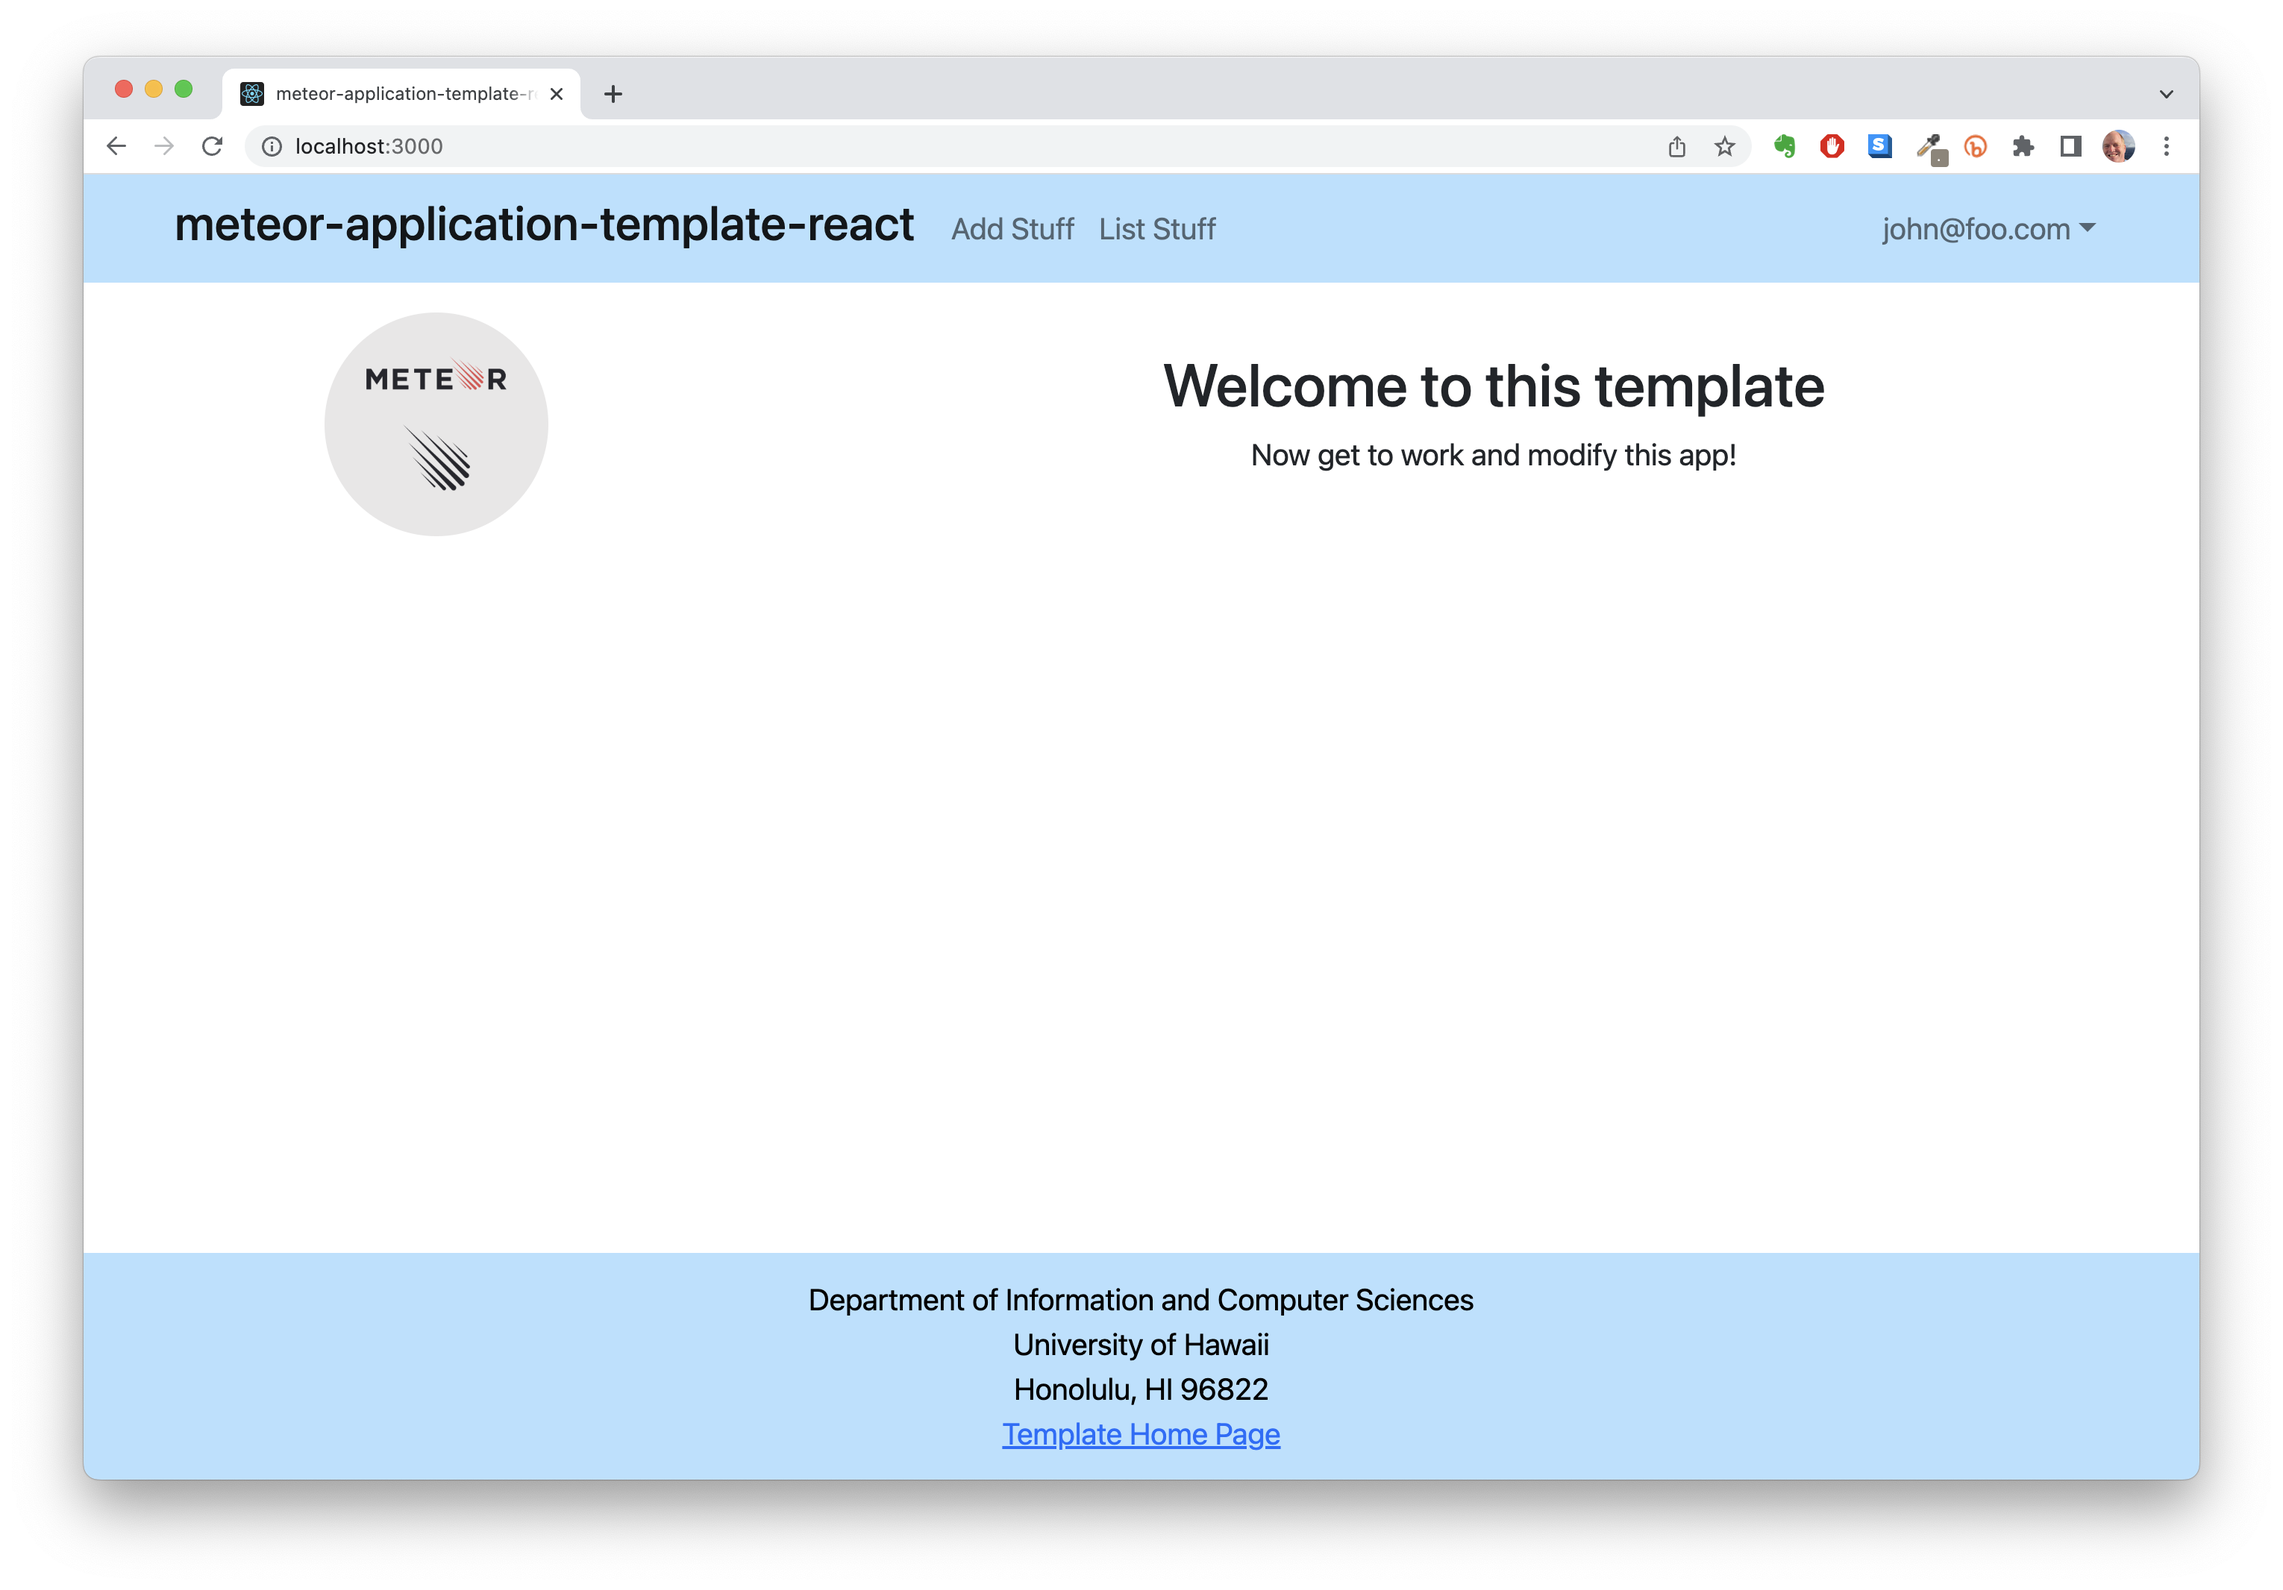
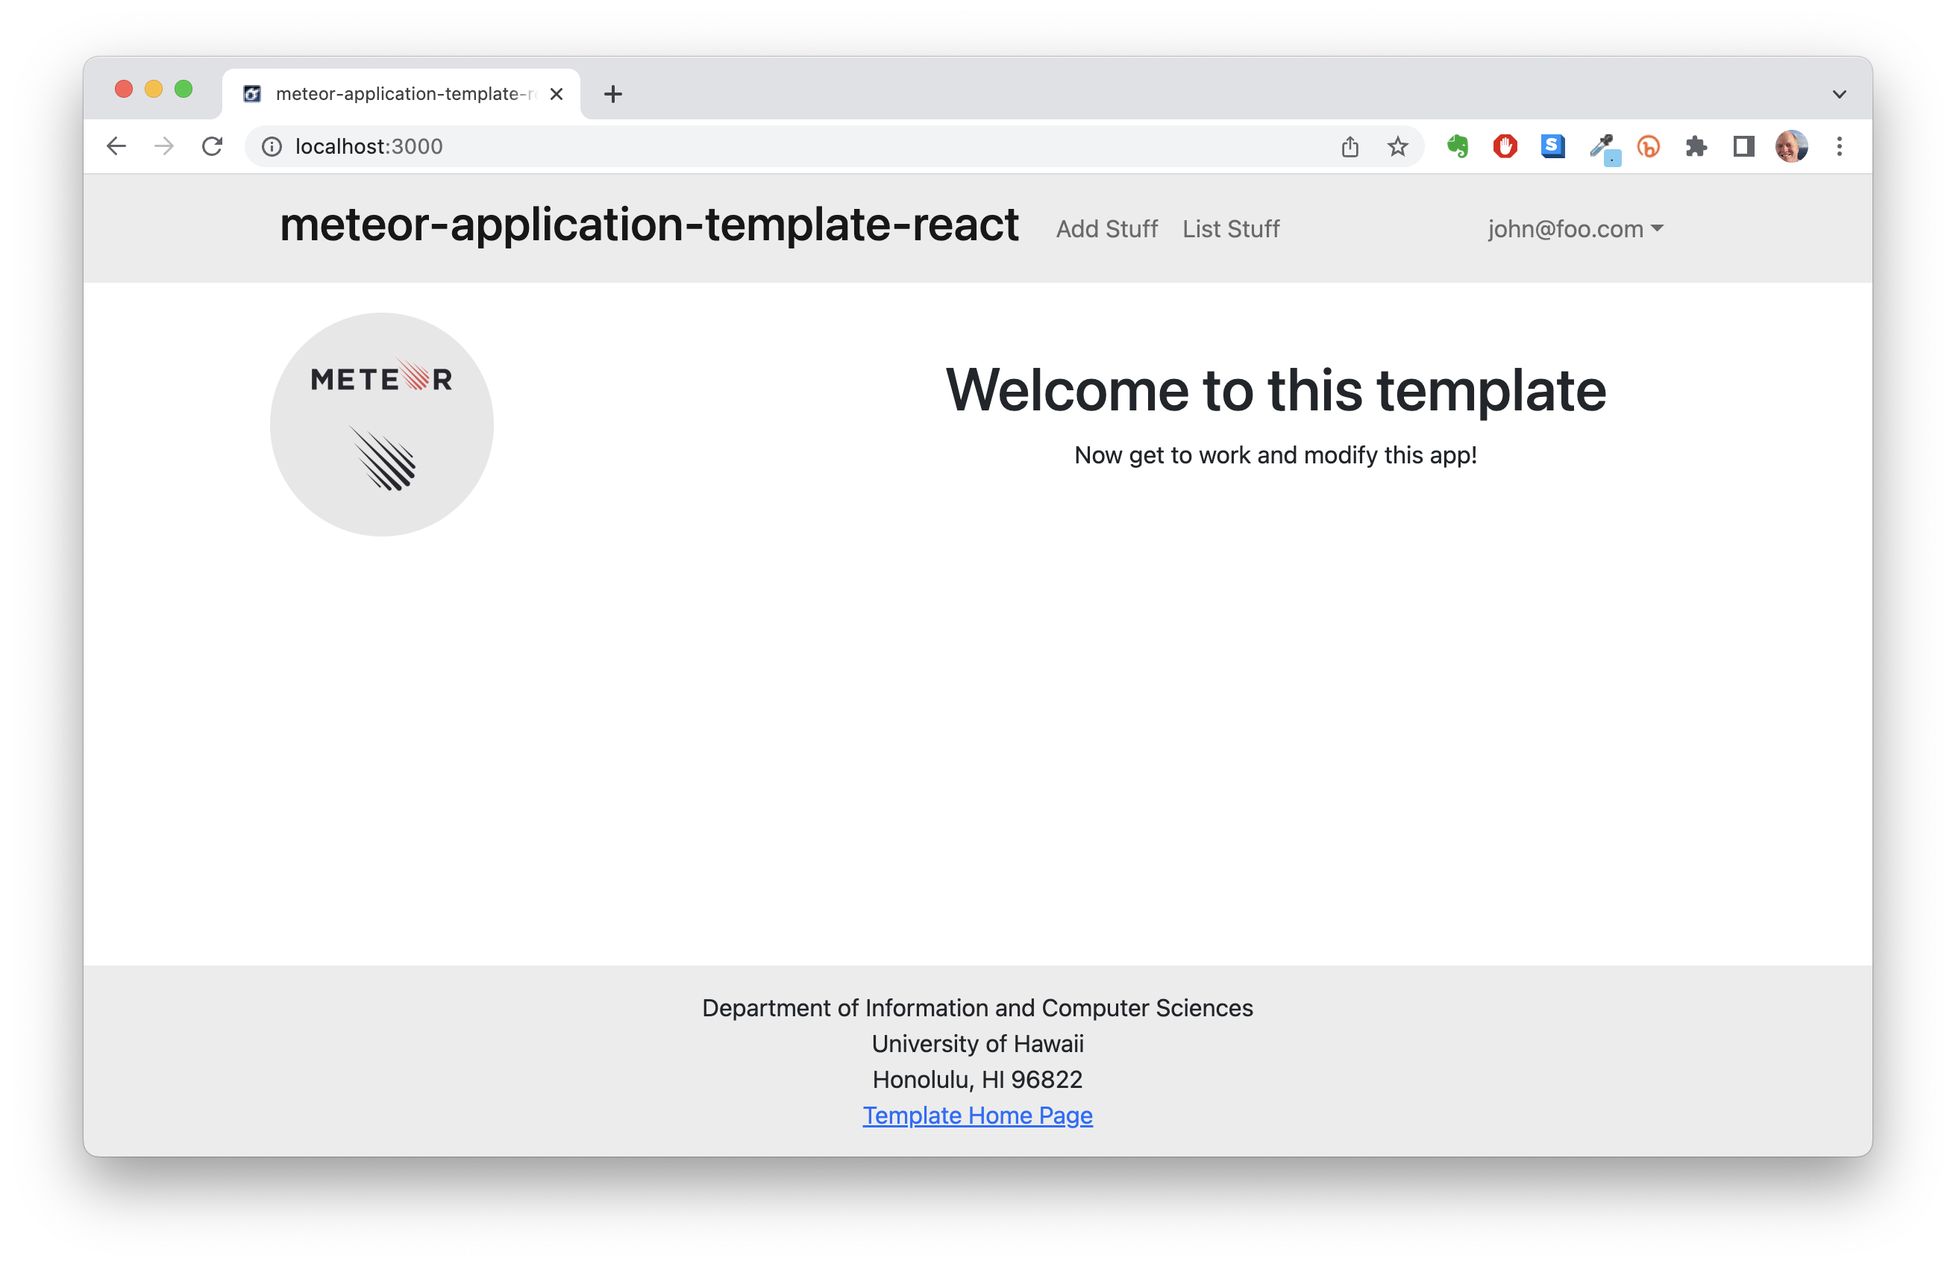
Updated the documentation images.

diff --git a/index.md b/index.md
@@ -217,7 +217,24 @@ The Stuffs collection is initialized in [imports/startup/server/Mongo.js](https:
 
 ### CSS
 
-The application uses the [React implementation of Bootstrap 5](https://react-bootstrap.github.io/). You can adjust the theme by editing the `app/scss/theme.scss` file. We rebuild the Bootstrap 5 theme every time we run `meteor npm run start`.
+The application uses the [React implementation of Bootstrap 5](https://react-bootstrap.github.io/). You can adjust the theme by editing the `app/client/style.css` file. To change the theme override the Bootstrap 5 CSS variables.
+
+```css
+/* Change bootstrap variable values.
+ See https://getbootstrap.com/docs/5.2/customize/css-variables/
+ */
+body {
+  --bs-light-rgb: 236, 236, 236;
+}
+
+/* Define custom styles */
+.gray-background {
+  background-color: var(--bs-gray-200);
+  color: var(--bs-dark);
+  padding-top: 10px;
+  padding-bottom: 20px;
+}
+```
 
 ### Routing
 
